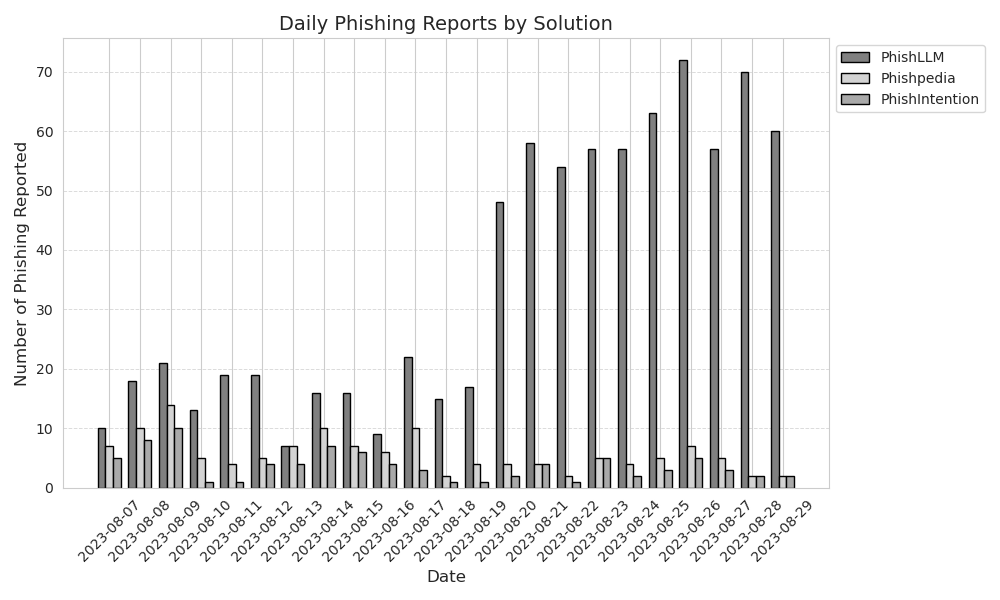
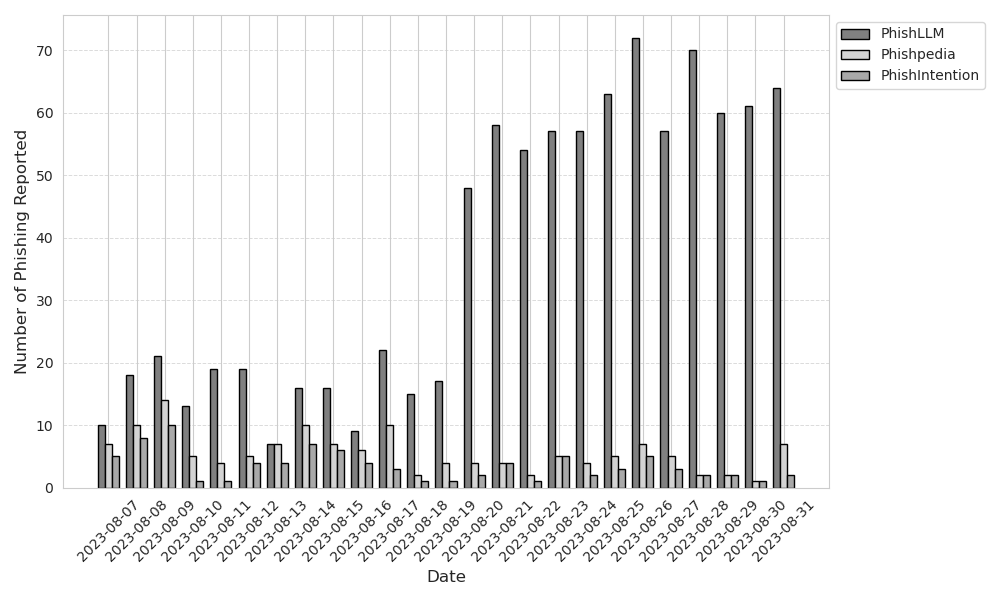
m

diff --git a/field_study/draw_utils.py b/field_study/draw_utils.py
@@ -4,10 +4,6 @@ from field_study.monitor_url import *
 from field_study.results_statistics import get_pos_site, daterange
 import os
 import networkx as nx
-from sklearn.metrics.pairwise import cosine_similarity
-import torch
-import torchvision.models as models
-import torchvision.transforms as transforms
 from PIL import Image
 import matplotlib.pyplot as plt
 import numpy as np
@@ -157,7 +153,7 @@ class GeneralAnalysis:
         # Labels and title
         plt.xlabel('Date', fontsize=12)
         plt.ylabel('Number of Phishing Reported', fontsize=12)
-        plt.title('Daily Phishing Reports by Solution', fontsize=14)
+        # plt.title('Daily Phishing Reports by Solution', fontsize=14)
 
         # X-axis ticks
         plt.xticks([r + width for r in range(len(df['Date']))], df['Date'], rotation=45)
@@ -193,7 +189,7 @@ class DomainAnalysis:
         sns.histplot(domain_age_list, bins=20, color='lightgray', edgecolor='black',
                      kde=False)  # Match color and edgecolor
 
-        plt.title('Distribution of Domain Ages', fontsize=14)
+        # plt.title('Distribution of Domain Ages', fontsize=14)
         plt.xlabel('Domain Age (in years)', fontsize=12)
         plt.ylabel('Frequency', fontsize=12)
         ax.tick_params(axis='both', which='major', labelsize=10)
@@ -211,7 +207,7 @@ class DomainAnalysis:
 
 class BrandAnalysis:
 
-    def visualize_brands(brand_list, topk=20):
+    def visualize_brands(brand_list, topk=10):
         sns.set_style("whitegrid")
         brand_counts = Counter(brand_list)
 
@@ -224,7 +220,7 @@ class BrandAnalysis:
         plt.bar(brands_sorted, counts_sorted, color='lightgray', edgecolor='black')
         plt.xlabel('Brands', fontsize=12)
         plt.ylabel('Number of Times Targeted', fontsize=12)
-        plt.title(f'Top {topk} Phishing Targets by Frequency', fontsize=14)
+        # plt.title(f'Top {topk} Phishing Targets by Frequency', fontsize=14)
         plt.xticks(rotation=45, fontsize=10)
         plt.yticks(np.arange(0, max(counts_sorted) + 1, 1), fontsize=10)
         plt.gca().spines['top'].set_visible(False)
@@ -316,7 +312,7 @@ class IPAnalysis:
         ax.grid(True, which='both', linestyle='--', linewidth=0.5, color='#d9d9d9')  # Subtle grid
 
         plt.tight_layout()
-        plt.title('Geolocation Distribution of Phishing IPs')
+        # plt.title('Geolocation Distribution of Phishing IPs')
         plt.savefig('./field_study/plots/geo.png')
         plt.close()
 
@@ -395,23 +391,37 @@ class CampaignAnalysis:
         # Define Color Palette
         colors = cycle(sns.color_palette("husl", 5))
 
-        # Extract Unique Dates
+        # Extract Unique Dates and Sort Clusters
         all_dates = set()
         for cluster in clusters:
-            _, dates, targets = zip(*cluster)
+            _, dates, _ = zip(*cluster)
             all_dates.update(dates)
         all_dates = sorted(list(all_dates), key=lambda date: datetime.strptime(date, '%Y-%m-%d'))
 
+        # Sort clusters by their earliest date
+        sorted_clusters = sorted(clusters,
+                                 key=lambda cluster: min(datetime.strptime(date, '%Y-%m-%d') for _, date, _ in cluster))
+
+        # Offset variable
+        offset = 0
+        offset_increment = 0.01  # You can adjust this value
+
         # Plot Time Series for Each Cluster
-        for i, cluster in enumerate(clusters):
+        for i, cluster in enumerate(sorted_clusters):
             _, dates, targets = zip(*cluster)
 
             # Filter Clusters
             if len(cluster) < 4 or targets[0] == 'outlook.com':
                 continue
-            print(cluster)
+
             # Convert Cluster to Time Series
             dates, counts = self.cluster_to_timeseries(cluster, all_dates)
+
+            # Add offset to counts
+            offset_counts = [count + offset for count in counts]
+
+            # Increment offset for next line
+            offset += offset_increment
 
             # Identify Indices for First and Last Increases
             first_increase_index, last_increase_index = None, None
@@ -424,17 +434,17 @@ class CampaignAnalysis:
             # Trim and Plot Time Series
             if first_increase_index is not None and last_increase_index is not None:
                 trimmed_dates = dates[first_increase_index:last_increase_index + 1]
-                trimmed_counts = counts[first_increase_index:last_increase_index + 1]
+                trimmed_counts = offset_counts[first_increase_index:last_increase_index + 1]
                 color = next(colors)
                 plt.plot(trimmed_dates, trimmed_counts, marker='o', color=color, label=f'Target = {targets[0]}')
 
         # Configure Plot Aesthetics
         plt.xticks(range(len(all_dates)), all_dates, rotation=45)
         plt.ylim(bottom=0)
-        plt.yticks(np.arange(np.floor(min(counts)), np.ceil(max(counts)) + 1, 1))
+        plt.yticks(np.arange(0, 6, 1))
         plt.xlabel('Date')
         plt.ylabel('Cumulative number of screenshots')
-        plt.title('Phishing Campaign over Time')
+        # plt.title('Phishing Campaign over Time')
         plt.legend()
 
         # Add Minimalist Grid Lines
@@ -481,8 +491,8 @@ if __name__ == '__main__':
     domains = list(map(lambda x: x['foldername'], rows))
     domain_ages = list(map(lambda x: x['domain_age'], rows))
     DomainAnalysis.tld_distribution(domains)
-    # alexa_urls = [x.strip().split(',')[1] for x in open('./datasets/top-1m.csv').readlines()]
-    # DomainAnalysis.tld_distribution(alexa_urls)
+    alexa_urls = [x.strip().split(',')[1] for x in open('./datasets/top-1m.csv').readlines()]
+    DomainAnalysis.tld_distribution(alexa_urls)
     DomainAnalysis.domain_age_distribution(domain_ages)
 
     '''brand'''
@@ -495,10 +505,6 @@ if __name__ == '__main__':
 
     '''phishing campaign'''
     shot_path_list = list(map(lambda x: os.path.join(base, x['date'], x['foldername'], 'shot.png'), rows))
-    # for shot_path in shot_path_list:
-    #     if not os.path.exists(shot_path):
-    #         print(shot_path)
-    # exit()
     campaign = CampaignAnalysis()
     clusters_path = campaign.cluster_shot_representations(shot_path_list, brands)
     campaign.visualize_campaign(clusters_path)

diff --git a/README.md b/README.md
@@ -16,7 +16,7 @@ Existing reference-based phishing detection
 In our PhishLLM, we build a reference-based phishing detection framework
 - ✅ Without a pre-defined reference list
 - ✅ Requires light-weight training
-- ✅ Mirrors human cognitive process during web interaction, therefore provides enhanced explainability 
+- ✅ Fully explainable, since it mirrors human cognitive process during web interaction, provides natural laguagne explanations at every step 
 
 ## Framework
 <img src="./figures/phishllm.png">
@@ -60,7 +60,9 @@ In our PhishLLM, we build a reference-based phishing detection framework
     ./setup.sh
 ```
 - Step 2: Register openai API key: See https://platform.openai.com/. Save the API key to './datasets/openai_key2.txt'
-- Step 3: Run!
+- Step 3 (Optional): All hyperparameter configurations are stored in param_dict.yaml, e.g. the parameters for GPT, the threshold for OCR etc. 
+Please edit the file if you want to play with different combinations of parameters.
+- Step 4: Run!
 ```bash
     conda activate myenv
     python -m field_study.test --folder [folder to test, e.g. ./datasets/field_study/2023-08-21/] --date [e.g. 2023-08-21]
@@ -70,8 +72,32 @@ Note that this will improve the phishing report precision but at the same time i
 ```bash
     python -m field_study.test --folder [folder to test] --date [e.g. 2023-08-21] --validate 
 ```
-- All hyperparameter configurations are stored in param_dict.yaml, e.g. the parameters for GPT, the threshold for OCR etc. 
-Please edit the file if you want to play with different combinations of parameters.
+
+<details>
+<summary> A .log file will be created during the run, which will log the explanations for each model prediction, click to see the sampled log</summary>
+    <pre><code>
+      [PhishLLMLogger][DEBUG] Folder ./datasets/field_study/2023-09-01/device-862044b2-5124-4735-b6d5-f114eea4a232.remotewd.com
+      [PhishLLMLogger][DEBUG] Logo caption: the logo for sonicwall network security appliance
+      [PhishLLMLogger][DEBUG] Logo OCR: SONICWALL Network Security Appliance Username
+      [PhishLLMLogger][DEBUG] Industry: Technology
+      [PhishLLMLogger][DEBUG] LLM prediction time: 0.9699530601501465
+      [PhishLLMLogger][DEBUG] Detected brand: sonicwall.com
+      [PhishLLMLogger][DEBUG] Domain sonicwall.com is valid and alive
+      [PhishLLMLogger][DEBUG] CRP prediction: There is no confusing token. Then we find the keywords that are related to login: LOG IN. Additionally, the presence of "Username" suggests that this page requires credentials. Therefore, the answer would be A.
+      [⚠] Phishing discovered, phishing target is sonicwall.com
+      [PhishLLMLogger][DEBUG] Folder ./datasets/field_study/2023-09-01/lp.aldooliveira.com
+      [PhishLLMLogger][DEBUG] Logo caption: a black and white photo of the word hello world
+      [PhishLLMLogger][DEBUG] Logo OCR: Hello world! Welcome to WordPress. This is your first post. Edit or delete it, then start writing! dezembro 2, 2021 publicado
+      [PhishLLMLogger][DEBUG] Industry: Uncategorized
+      [PhishLLMLogger][DEBUG] LLM prediction time: 0.8813009262084961
+      [PhishLLMLogger][DEBUG] Detected brand: wordpress.com
+      [PhishLLMLogger][DEBUG] Domain wordpress.com is valid and alive
+      [PhishLLMLogger][DEBUG] CRP prediction: There is no token or keyword related to login or sensitive information. Therefore the answer would be B.
+      [PhishLLMLogger][DEBUG] No candidate login button to click
+       [✅] Benign
+    </code></pre>
+</details>
+
 
 ## Findings
 <details>
@@ -84,7 +110,7 @@ Please edit the file if you want to play with different combinations of paramete
 </details>
 <details>
   <summary>Phishing domain TLD distribution</summary>
-
+  
   | Top-5 TLD | Frequency      |
   |----------------| --------------- |
   | .com    | 256 occurrences |
